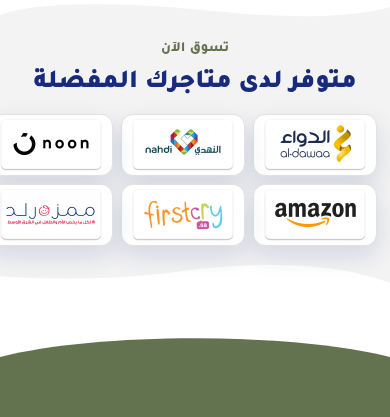
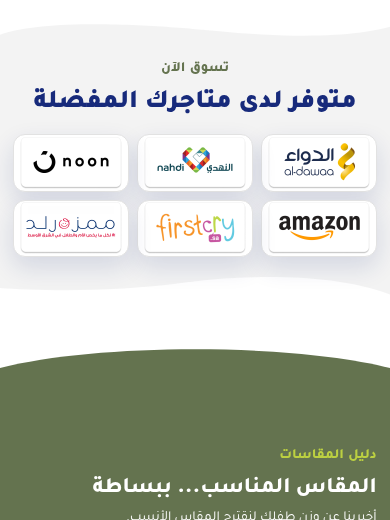
Sage Shop Now colourway

diff --git a/assets/bj-extra.css b/assets/bj-extra.css
@@ -325,3 +325,9 @@
 @media (max-width:767px){.shop-band h2{font-size:2.6rem!important}.shop-tiles a{padding:.4rem}.shop-tiles img{max-height:52px}}
 .shop-tiles{grid-template-columns:repeat(6,minmax(0,1fr))}.shop-tiles a{min-width:0;overflow:hidden}.shop-tiles img{max-width:100%!important;object-fit:contain}
 @media (max-width:767px){.shop-tiles{grid-template-columns:repeat(3,minmax(0,1fr))}}
+/* v30 sampled sage colourway */
+.s8-band.shop-band{background-image:url('img/featured-bgr-1-sage.svg')!important}
+@media (max-width:767px){.s8-band.shop-band{background-image:url('img/featured-bgr-mobile-sage.svg')!important}}
+.shop-band h2{color:#2F4033!important}
+.shop-band .bjx-eyebrow{color:#697252!important}
+.shop-tiles a{background:#FDFDFD;border-color:#B5B99F;box-shadow:0 8px 20px rgba(100,115,79,.14)}

diff --git a/en/about.html b/en/about.html
@@ -91,7 +91,7 @@ select.mt-field{appearance:auto}
 .en-intro p{color:#0f1577;font-weight:600;font-size:clamp(17px,2vw,24px);line-height:1.35;margin:0}
 .mt-legal{max-width:860px;margin:0 auto;padding:clamp(110px,16vw,210px) 20px 80px;text-align:start}.mt-legal h1{color:#172a7b;font-weight:800;margin:20px 0;font-size:clamp(28px,5vw,48px)}.mt-legal .ph{background:#fff4d6;color:#6b4e00;border-radius:12px;padding:10px 14px;font-size:1.4rem}
 </style>
-<link rel="stylesheet" href="../assets/bj-extra.css?v=29">
+<link rel="stylesheet" href="../assets/bj-extra.css?v=30">
 </head>
 
 <body class="home wp-singular page-template page-template-templates page-template-home-2025 page-template-templateshome-2025-php page page-id-185 wp-custom-logo wp-theme-babyjoy no-sidebar">

diff --git a/en/contact.html b/en/contact.html
@@ -91,7 +91,7 @@ select.mt-field{appearance:auto}
 .en-intro p{color:#0f1577;font-weight:600;font-size:clamp(17px,2vw,24px);line-height:1.35;margin:0}
 .mt-legal{max-width:860px;margin:0 auto;padding:clamp(110px,16vw,210px) 20px 80px;text-align:start}.mt-legal h1{color:#172a7b;font-weight:800;margin:20px 0;font-size:clamp(28px,5vw,48px)}.mt-legal .ph{background:#fff4d6;color:#6b4e00;border-radius:12px;padding:10px 14px;font-size:1.4rem}
 </style>
-<link rel="stylesheet" href="../assets/bj-extra.css?v=29">
+<link rel="stylesheet" href="../assets/bj-extra.css?v=30">
 </head>
 
 <body class="home wp-singular page-template page-template-templates page-template-home-2025 page-template-templateshome-2025-php page page-id-185 wp-custom-logo wp-theme-babyjoy no-sidebar">

diff --git a/en/guide.html b/en/guide.html
@@ -91,7 +91,7 @@ select.mt-field{appearance:auto}
 .en-intro p{color:#0f1577;font-weight:600;font-size:clamp(17px,2vw,24px);line-height:1.35;margin:0}
 .mt-legal{max-width:860px;margin:0 auto;padding:clamp(110px,16vw,210px) 20px 80px;text-align:start}.mt-legal h1{color:#172a7b;font-weight:800;margin:20px 0;font-size:clamp(28px,5vw,48px)}.mt-legal .ph{background:#fff4d6;color:#6b4e00;border-radius:12px;padding:10px 14px;font-size:1.4rem}
 </style>
-<link rel="stylesheet" href="../assets/bj-extra.css?v=29">
+<link rel="stylesheet" href="../assets/bj-extra.css?v=30">
 </head>
 
 <body class="home wp-singular page-template page-template-templates page-template-home-2025 page-template-templateshome-2025-php page page-id-185 wp-custom-logo wp-theme-babyjoy no-sidebar">

diff --git a/en/index.html b/en/index.html
@@ -91,7 +91,7 @@ select.mt-field{appearance:auto}
 .en-intro p{color:#0f1577;font-weight:600;font-size:clamp(17px,2vw,24px);line-height:1.35;margin:0}
 .mt-legal{max-width:860px;margin:0 auto;padding:clamp(110px,16vw,210px) 20px 80px;text-align:start}.mt-legal h1{color:#172a7b;font-weight:800;margin:20px 0;font-size:clamp(28px,5vw,48px)}.mt-legal .ph{background:#fff4d6;color:#6b4e00;border-radius:12px;padding:10px 14px;font-size:1.4rem}
 </style>
-<link rel="stylesheet" href="../assets/bj-extra.css?v=29">
+<link rel="stylesheet" href="../assets/bj-extra.css?v=30">
 </head>
 
 <body class="home wp-singular page-template page-template-templates page-template-home-2025 page-template-templateshome-2025-php page page-id-185 wp-custom-logo wp-theme-babyjoy no-sidebar">

diff --git a/en/privacy.html b/en/privacy.html
@@ -91,7 +91,7 @@ select.mt-field{appearance:auto}
 .en-intro p{color:#0f1577;font-weight:600;font-size:clamp(17px,2vw,24px);line-height:1.35;margin:0}
 .mt-legal{max-width:860px;margin:0 auto;padding:clamp(110px,16vw,210px) 20px 80px;text-align:start}.mt-legal h1{color:#172a7b;font-weight:800;margin:20px 0;font-size:clamp(28px,5vw,48px)}.mt-legal .ph{background:#fff4d6;color:#6b4e00;border-radius:12px;padding:10px 14px;font-size:1.4rem}
 </style>
-<link rel="stylesheet" href="../assets/bj-extra.css?v=29">
+<link rel="stylesheet" href="../assets/bj-extra.css?v=30">
 </head>
 
 <body class="home wp-singular page-template page-template-templates page-template-home-2025 page-template-templateshome-2025-php page page-id-185 wp-custom-logo wp-theme-babyjoy no-sidebar">

diff --git a/en/product-compressed-tape.html b/en/product-compressed-tape.html
@@ -91,7 +91,7 @@ select.mt-field{appearance:auto}
 .en-intro p{color:#0f1577;font-weight:600;font-size:clamp(17px,2vw,24px);line-height:1.35;margin:0}
 .mt-legal{max-width:860px;margin:0 auto;padding:clamp(110px,16vw,210px) 20px 80px;text-align:start}.mt-legal h1{color:#172a7b;font-weight:800;margin:20px 0;font-size:clamp(28px,5vw,48px)}.mt-legal .ph{background:#fff4d6;color:#6b4e00;border-radius:12px;padding:10px 14px;font-size:1.4rem}
 </style>
-<link rel="stylesheet" href="../assets/bj-extra.css?v=29">
+<link rel="stylesheet" href="../assets/bj-extra.css?v=30">
 </head>
 
 <body class="home wp-singular page-template page-template-templates page-template-home-2025 page-template-templateshome-2025-php page page-id-185 wp-custom-logo wp-theme-babyjoy no-sidebar">

diff --git a/en/product-olive-pants.html b/en/product-olive-pants.html
@@ -91,7 +91,7 @@ select.mt-field{appearance:auto}
 .en-intro p{color:#0f1577;font-weight:600;font-size:clamp(17px,2vw,24px);line-height:1.35;margin:0}
 .mt-legal{max-width:860px;margin:0 auto;padding:clamp(110px,16vw,210px) 20px 80px;text-align:start}.mt-legal h1{color:#172a7b;font-weight:800;margin:20px 0;font-size:clamp(28px,5vw,48px)}.mt-legal .ph{background:#fff4d6;color:#6b4e00;border-radius:12px;padding:10px 14px;font-size:1.4rem}
 </style>
-<link rel="stylesheet" href="../assets/bj-extra.css?v=29">
+<link rel="stylesheet" href="../assets/bj-extra.css?v=30">
 </head>
 
 <body class="home wp-singular page-template page-template-templates page-template-home-2025 page-template-templateshome-2025-php page page-id-185 wp-custom-logo wp-theme-babyjoy no-sidebar">

diff --git a/en/product-olive-tape.html b/en/product-olive-tape.html
@@ -91,7 +91,7 @@ select.mt-field{appearance:auto}
 .en-intro p{color:#0f1577;font-weight:600;font-size:clamp(17px,2vw,24px);line-height:1.35;margin:0}
 .mt-legal{max-width:860px;margin:0 auto;padding:clamp(110px,16vw,210px) 20px 80px;text-align:start}.mt-legal h1{color:#172a7b;font-weight:800;margin:20px 0;font-size:clamp(28px,5vw,48px)}.mt-legal .ph{background:#fff4d6;color:#6b4e00;border-radius:12px;padding:10px 14px;font-size:1.4rem}
 </style>
-<link rel="stylesheet" href="../assets/bj-extra.css?v=29">
+<link rel="stylesheet" href="../assets/bj-extra.css?v=30">
 </head>
 
 <body class="home wp-singular page-template page-template-templates page-template-home-2025 page-template-templateshome-2025-php page page-id-185 wp-custom-logo wp-theme-babyjoy no-sidebar">

diff --git a/en/product-pants.html b/en/product-pants.html
@@ -91,7 +91,7 @@ select.mt-field{appearance:auto}
 .en-intro p{color:#0f1577;font-weight:600;font-size:clamp(17px,2vw,24px);line-height:1.35;margin:0}
 .mt-legal{max-width:860px;margin:0 auto;padding:clamp(110px,16vw,210px) 20px 80px;text-align:start}.mt-legal h1{color:#172a7b;font-weight:800;margin:20px 0;font-size:clamp(28px,5vw,48px)}.mt-legal .ph{background:#fff4d6;color:#6b4e00;border-radius:12px;padding:10px 14px;font-size:1.4rem}
 </style>
-<link rel="stylesheet" href="../assets/bj-extra.css?v=29">
+<link rel="stylesheet" href="../assets/bj-extra.css?v=30">
 </head>
 
 <body class="home wp-singular page-template page-template-templates page-template-home-2025 page-template-templateshome-2025-php page page-id-185 wp-custom-logo wp-theme-babyjoy no-sidebar">

diff --git a/en/product-super-big-pants.html b/en/product-super-big-pants.html
@@ -91,7 +91,7 @@ select.mt-field{appearance:auto}
 .en-intro p{color:#0f1577;font-weight:600;font-size:clamp(17px,2vw,24px);line-height:1.35;margin:0}
 .mt-legal{max-width:860px;margin:0 auto;padding:clamp(110px,16vw,210px) 20px 80px;text-align:start}.mt-legal h1{color:#172a7b;font-weight:800;margin:20px 0;font-size:clamp(28px,5vw,48px)}.mt-legal .ph{background:#fff4d6;color:#6b4e00;border-radius:12px;padding:10px 14px;font-size:1.4rem}
 </style>
-<link rel="stylesheet" href="../assets/bj-extra.css?v=29">
+<link rel="stylesheet" href="../assets/bj-extra.css?v=30">
 </head>
 
 <body class="home wp-singular page-template page-template-templates page-template-home-2025 page-template-templateshome-2025-php page page-id-185 wp-custom-logo wp-theme-babyjoy no-sidebar">

diff --git a/en/product-wipes-healthy.html b/en/product-wipes-healthy.html
@@ -91,7 +91,7 @@ select.mt-field{appearance:auto}
 .en-intro p{color:#0f1577;font-weight:600;font-size:clamp(17px,2vw,24px);line-height:1.35;margin:0}
 .mt-legal{max-width:860px;margin:0 auto;padding:clamp(110px,16vw,210px) 20px 80px;text-align:start}.mt-legal h1{color:#172a7b;font-weight:800;margin:20px 0;font-size:clamp(28px,5vw,48px)}.mt-legal .ph{background:#fff4d6;color:#6b4e00;border-radius:12px;padding:10px 14px;font-size:1.4rem}
 </style>
-<link rel="stylesheet" href="../assets/bj-extra.css?v=29">
+<link rel="stylesheet" href="../assets/bj-extra.css?v=30">
 </head>
 
 <body class="home wp-singular page-template page-template-templates page-template-home-2025 page-template-templateshome-2025-php page page-id-185 wp-custom-logo wp-theme-babyjoy no-sidebar">
